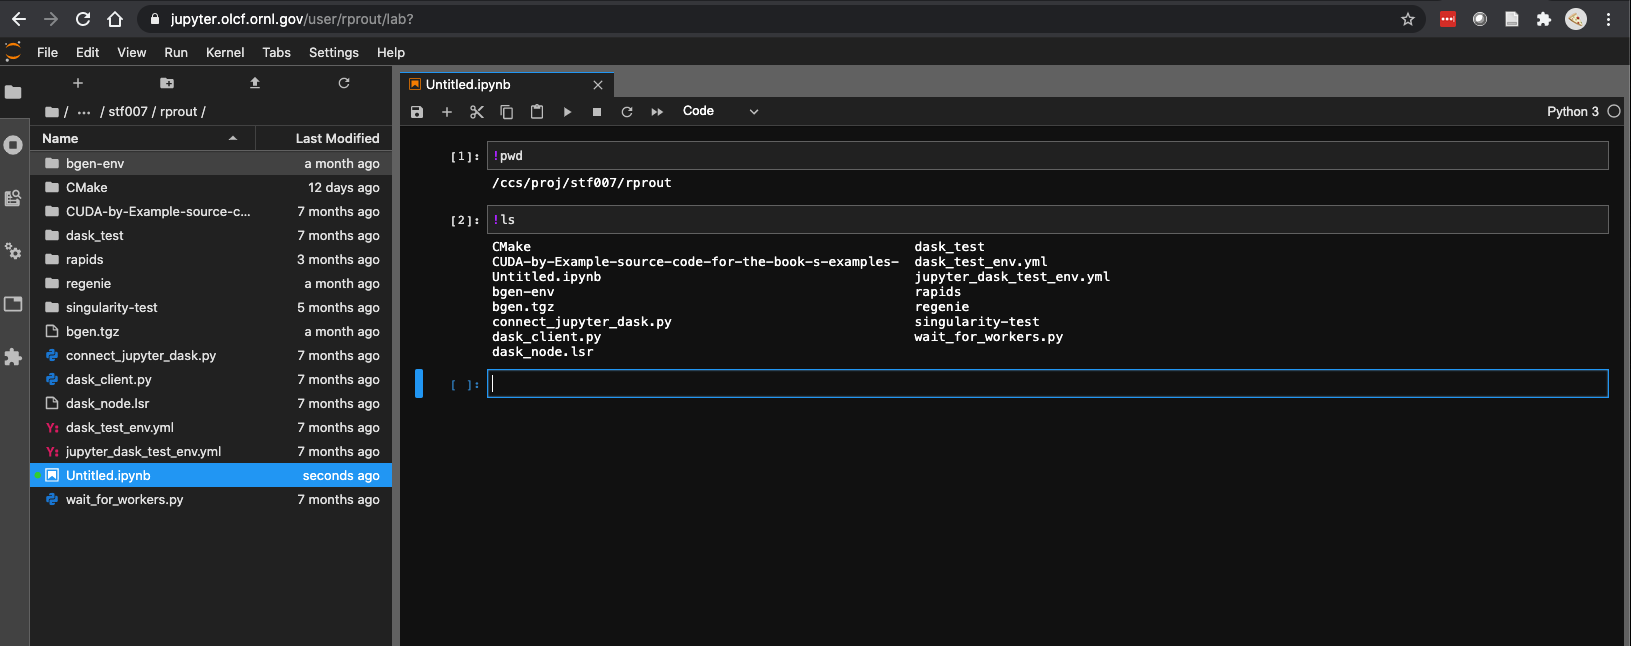
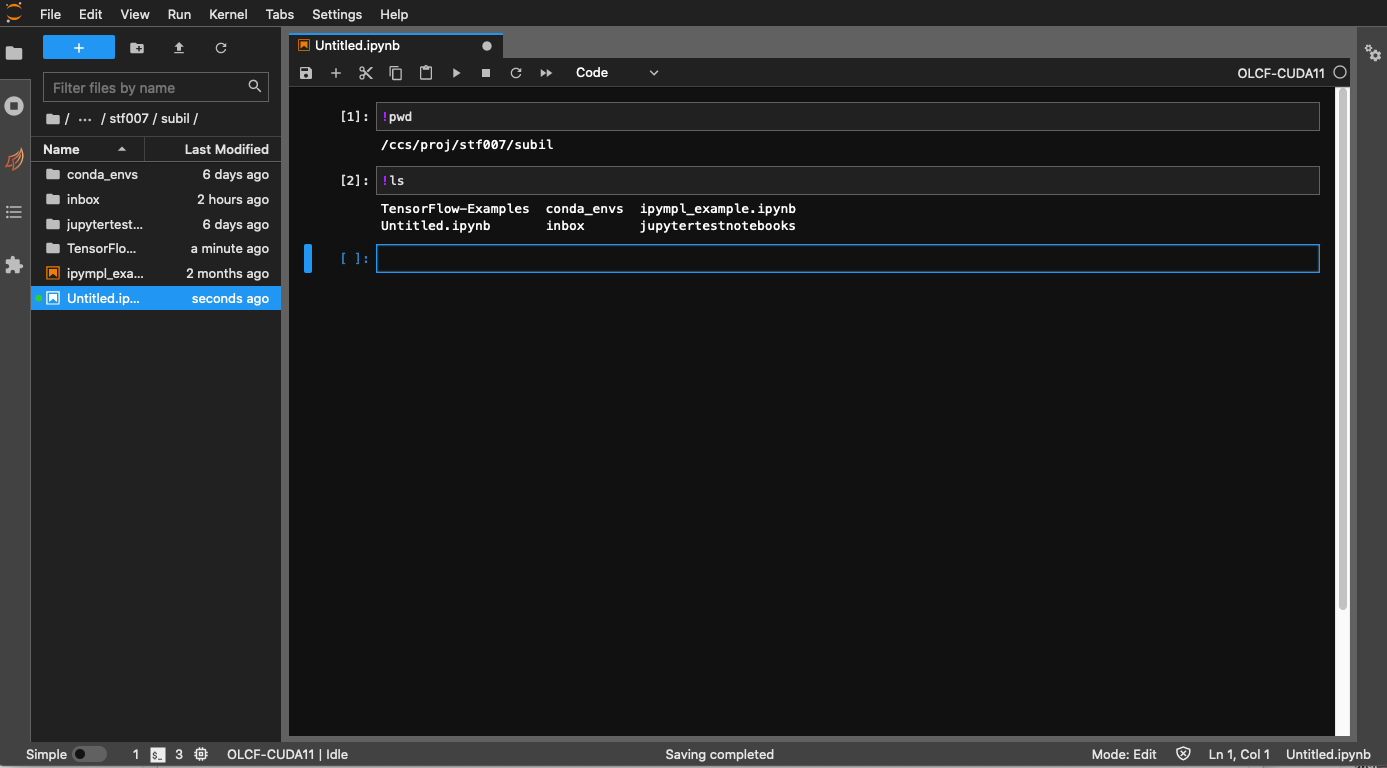
changed names and screenshots to reflect the new naming of the environments

Changed region(s): [[0.0, 0.0, 1.0, 1.0]]

diff --git a/services_and_applications/jupyter/overview.rst b/services_and_applications/jupyter/overview.rst
@@ -44,7 +44,7 @@ After succesfull authentication you will be presented with a choice of JupyterLa
 
 
 .. note::
-  These GPU-enabled labs are limited. You may get get a message saying the resource is not schedulable, if all GPUs in the pool are occupied.**
+  These GPU-enabled labs are limited. You may get get a message saying the resource is not schedulable, if all GPUs in the pool are occupied.
 
 
 .. image:: /images/jupyter/jupyterlab_images.png
@@ -107,7 +107,8 @@ CPU support in the CUDA11 environments. The image below shows the CUDA options i
 Working within GPFS and NFS (Launching a notebook)
 --------------------------------------------------
 
-To see the root of your filesystem access, within your JupyterLab interface, click this circled folder (you can traverse to your users spaces from there):
+To see the root of your filesystem access, within your JupyterLab interface, click this
+circled folder (you can traverse to your users spaces from there):
 
 .. image:: /images/jupyter/directory_access.png
 
@@ -115,18 +116,22 @@ You should see **gpfs** and **ccs** - the "top" of GPFS amd NFS respectively.
 
 Then, you can start a notebook in the directory of your choosing (relative to your user access). 
 
-To do so, traverse the filesystem to your desired path and then click the "Python 3" notebook in the launcher page. This will launch the default notebook environment and store the notebook in your current path. 
+To do so, traverse the filesystem to your desired path and then click the "Python 3"
+notebook in the launcher page. This will launch the default notebook environment and store
+the notebook in your current path.
 
 .. note::
   Any notebooks saved in the root location won't be persisted across
   sessions. Make sure you are saving your work in a location in /ccs or /gpfs where you
   have write access.
 
-In the example image below, I have launched a notebook in my **/ccs/proj/<proj>/<uid>/** directory (the notebook filename is "Untitled.ipynb" - you can rename yours):
+In the example image below, I have launched a notebook in my **/ccs/proj/<proj>/<uid>/**
+directory (the notebook filename is "Untitled.ipynb" - you can rename yours):
 
 .. image:: /images/jupyter/directory_example.png
 
-Another method of getting to the filesystem path of your choosing is selecting **File->"Open from Path"** and typing the desired path in the text box:
+Another method of getting to the filesystem path of your choosing is selecting
+**File->"Open from Path"** and typing the desired path in the text box:
 
 .. image:: /images/jupyter/open_file_path.png
 
@@ -149,10 +154,6 @@ Conda environments need to be saved in a ``/ccs`` or ``/gpfs/alpine`` directory.
 
 **NOTE**: Please note that **GPFS is purged**. Using /ccs/proj/ is recommended
 
-Let us look at an example, which creates a custom environment and install the `TOML <https://github.com/uiri/toml>`__ package.
-
-At the end of this example you will have a "rapids" notebook visible in the JuptyerLab "Launcher" page. We will make the RAPIDS environment persistent by 
-building it at /ccs/proj/<YOUR_UID>/rapids. 
 
 
 Example: Creating a Conda environment for RAPIDS
@@ -188,8 +189,10 @@ Example: Creating a Conda environment for RAPIDS
    .. image:: /images/jupyter/rapids_notebook_image.png
      
 
-#. Now open a ``rapids`` notebook to check if the installation was successful. In the below image, I created a notebook called *rapids-test* in my NFS 
-   project space and did a very basic cuDF operation on some example data (in  the red circle, you can see I am using the created "rapids" environment/kernel):
+#. Now open a ``rapids`` notebook to check if the installation was successful. In the
+   below image, I created a notebook called *rapids-test* in my NFS project space and did
+   a very basic cuDF operation on some example data (in the red circle, you can see I am
+   using the created "rapids" environment/kernel):
 
    
    ..  image:: /images/jupyter/cudf_rapids_test.png
@@ -205,7 +208,9 @@ Example: Creating a Conda environment for RAPIDS
 To delete your environment, you will need to delete it from the path where the environment
 was created, as well as delete the corresponding directory from ``~/.local/share/jupyter/kernels``.
 
-You may follow these general steps to create and install packages within an any environment you decide to create. The main componentes to accomplish this, using a terminal session, are: 
+You may follow these general steps to create and install packages within an any
+environment you decide to create. The main componentes to accomplish this, using a
+terminal session, are:
  
  - *conda create -p /path/to/env*
  - *source activate /path/to/env*
@@ -218,16 +223,23 @@ Example: Cloning an existing environment
 
 The below steps apply for either the CPU or GPU lab.
 
+.. note::
+   Running ``conda env list`` on the Terminal in the GPU lab will show the 'base'
+   and 'olcf-cuda10' environments. The 'base' environment corresponds to the 'OLCF-CUDA11'
+   notebook and the 'olcf-cuda10' environment corresponds to the 'OLCF-CUDA10' notebook in
+   the Launcher page. In the CPU lab, the 'base' environment corresponds to the
+   'OLCF-base' notebook in the Launcher page.
+
 #. Start a GPU or CPU lab from `https://jupyter.olcf.ornl.gov <https://jupyter.olcf.ornl.gov>`__. 
 #. From the Launcher page in JupyterLab, click on Terminal.
 #. See available environments in the JupyterLab by opening a Terminal and typing ``conda
-   env list``. In GPU lab, you will see the ``base`` and the ``cuda10`` environments.
+   env list``.
      * In the CPU lab, clone the base Conda environment with ``conda create -p
        /ccs/proj/<YOUR_PROJECT_ID>/<YOUR_UID>/yourenvname --clone base``.
      * For the GPU lab, use the same command but replace the ``--clone`` flag with
-       ``--clone cuda10`` for cloning the Cuda 10 environment. Use ``--clone base`` to
-       clone the Cuda 11 environment (internally the Cuda 11 environment is actually the
-       relabeled 'base' environment).
+       ``--clone olcf-cuda10`` for cloning the Cuda 10 environment. Use ``--clone base`` to
+       clone the Cuda 11 environment (internally the OLCF-CUDA11 notebook is actually the
+       'base' notebook relabeled).
      * **NOTE**: You need to use ``-p`` method if you want your environment to persist across Jupyter
        Restarts. The path can be a location in ``/ccs`` or ``/gpfs/alpine`` that is writable
        by your user.
@@ -249,6 +261,11 @@ The below steps apply for either the CPU or GPU lab.
        ``yourenvname`` environment.
 
 
+.. note::
+   Conda environments created this way are only usable in JupyterLab. You can't
+   create an environment within JupyterLab and use these environments on other machines
+   like Summit or Andes to run jobs. You will need to recreate the environment separately
+   on those machines.
 
 Manually stopping your JupyterLab session
 -----------------------------------------
